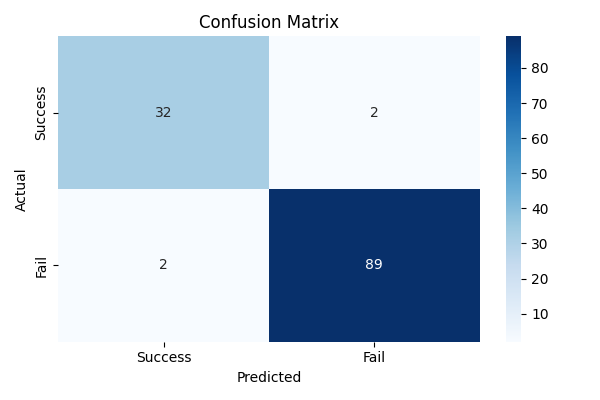
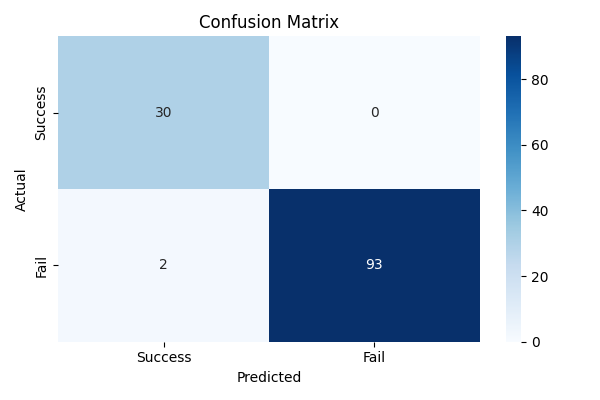
mlflow run succesfully on aws EC2 VM

diff --git a/awstrackingmlflow.py b/awstrackingmlflow.py
@@ -1,0 +1,153 @@
+import os
+import sys
+import warnings
+import logging
+import pandas as pd
+import numpy as np
+import matplotlib.pyplot as plt
+import seaborn as sns
+
+from sklearn.metrics import (
+    accuracy_score,
+    precision_score,
+    recall_score,
+    f1_score,
+    classification_report,
+    confusion_matrix
+)
+from sklearn.model_selection import train_test_split
+from sklearn.ensemble import RandomForestClassifier
+from urllib.parse import urlparse
+
+import mlflow
+import mlflow.sklearn
+from mlflow.models.signature import infer_signature
+
+# ✅ DagsHub MLflow tracking integration
+from dagshub import init
+# init(
+#     repo_owner='mahfuzrahmandsuh23',
+#     repo_name='SmartDebitMonitor-with-Mlflow-DagsHub-AWS',
+#     mlflow=True
+# )
+
+# ✅ Logging setup
+logging.basicConfig(level=logging.WARN)
+logger = logging.getLogger(__name__)
+
+# 📏 Metric utility
+def compute_metrics(y_true, y_pred):
+    return {
+        "accuracy": accuracy_score(y_true, y_pred),
+        "precision": precision_score(y_true, y_pred),
+        "recall": recall_score(y_true, y_pred),
+        "f1_score": f1_score(y_true, y_pred)
+    }
+
+# 📊 Confusion Matrix
+def log_confusion_matrix(y_true, y_pred, class_names):
+    cm = confusion_matrix(y_true, y_pred)
+    plt.figure(figsize=(6, 4))
+    sns.heatmap(cm, annot=True, fmt='d', cmap='Blues',
+                xticklabels=class_names, yticklabels=class_names)
+    plt.xlabel("Predicted")
+    plt.ylabel("Actual")
+    plt.title("Confusion Matrix")
+    plt.tight_layout()
+    cm_path = "confusion_matrix.png"
+    plt.savefig(cm_path)
+    plt.close()
+    mlflow.log_artifact(cm_path)
+
+# 🌲 Feature Importance
+def log_feature_importance(model, feature_names):
+    importances = model.feature_importances_
+    indices = np.argsort(importances)[::-1]
+    plt.figure(figsize=(10, 6))
+    sns.barplot(x=importances[indices], y=np.array(feature_names)[indices])
+    plt.title("Feature Importances")
+    plt.xlabel("Importance")
+    plt.ylabel("Feature")
+    plt.tight_layout()
+    fi_path = "feature_importance.png"
+    plt.savefig(fi_path)
+    plt.close()
+    mlflow.log_artifact(fi_path)
+
+# 🚀 ML pipeline
+if __name__ == "__main__":
+    warnings.filterwarnings("ignore")
+
+    # 🎲 Generate dynamic random seed for varied experiments
+    seed = np.random.randint(1, 10000)
+
+    # ✅ Step 1: Set remote tracking URI before anything else
+    remote_tracking_uri = "http://ec2-13-49-145-220.eu-north-1.compute.amazonaws.com:5000/"
+    mlflow.set_tracking_uri(remote_tracking_uri)
+
+    print("Tracking URI set to:", mlflow.get_tracking_uri())
+
+    # 📂 Load dataset
+    csv_path = os.path.join("Data", "synthetic_recurring_payment_data.csv")
+    try:
+        df = pd.read_csv(csv_path)
+    except Exception as e:
+        logger.exception("❌ Unable to load dataset: %s", e)
+        sys.exit(1)
+
+    # 🧹 Preprocessing
+    df.drop(columns=["CustomerID", "PaymentDate"], inplace=True)
+    df["IsWeekend"] = df["IsWeekend"].astype(int)
+    df = pd.get_dummies(df, columns=["PaymentType", "AccountType"], drop_first=True)
+    df["PaymentStatus"] = df["PaymentStatus"].map({"Success": 0, "Fail": 1})
+
+    # 🎯 Split
+    X = df.drop("PaymentStatus", axis=1)
+    y = df["PaymentStatus"]
+    X_train, X_test, y_train, y_test = train_test_split(
+        X, y, test_size=0.25, random_state=seed
+    )
+
+    # 🔄 Start MLflow run
+    with mlflow.start_run():
+        # 🌲 Train model with variable seed
+        model = RandomForestClassifier(n_estimators=100, random_state=seed)
+        model.fit(X_train, y_train)
+        y_pred = model.predict(X_test)
+
+        # 📈 Metrics
+        metrics = compute_metrics(y_test, y_pred)
+        for key, value in metrics.items():
+            mlflow.log_metric(key, value)
+
+        # Log parameters
+        mlflow.log_param("n_estimators", 100)
+        mlflow.log_param("random_seed", seed)
+
+        # 📄 Save classification report
+        report_path = "classification_report.txt"
+        with open(report_path, "w") as f:
+            f.write(classification_report(y_test, y_pred))
+        mlflow.log_artifact(report_path)
+
+        # 📊 Log visual artifacts
+        log_confusion_matrix(y_test, y_pred, class_names=["Success", "Fail"])
+        log_feature_importance(model, X.columns)
+
+        # 💾 Log model with signature
+        #signature = infer_signature(X_test, y_pred)
+        tracking_type = urlparse(mlflow.get_tracking_uri()).scheme
+
+        if tracking_type != "file":
+            mlflow.sklearn.log_model(
+                model,
+                artifact_path="model",
+                registered_model_name="RecurringPayModel"
+               
+            )
+        else:
+            mlflow.sklearn.log_model(
+                model,
+                artifact_path="model"
+                
+            )

diff --git a/Dagshub_MLflow.py b/Dagshub_MLflow.py
@@ -1,0 +1,142 @@
+import os
+import sys
+import warnings
+import logging
+import pandas as pd
+import numpy as np
+import matplotlib.pyplot as plt
+import seaborn as sns
+
+from sklearn.metrics import (
+    accuracy_score,
+    precision_score,
+    recall_score,
+    f1_score,
+    classification_report,
+    confusion_matrix
+)
+from sklearn.model_selection import train_test_split
+from sklearn.ensemble import RandomForestClassifier
+from urllib.parse import urlparse
+
+import mlflow
+import mlflow.sklearn
+from mlflow.models.signature import infer_signature
+
+# ✅ DagsHub integration
+from dagshub import init
+
+# Replace with your actual username and repo name
+init(repo_owner='mahfuzrahmandsuh23',
+     repo_name='SmartDebitMonitor-with-Mlflow-DagsHub-AWS',
+     mlflow=True)
+
+# ✅ Logging setup
+logging.basicConfig(level=logging.WARN)
+logger = logging.getLogger(__name__)
+
+
+# 📏 Metrics utility
+def compute_metrics(y_true, y_pred):
+    return {
+        "accuracy": accuracy_score(y_true, y_pred),
+        "precision": precision_score(y_true, y_pred),
+        "recall": recall_score(y_true, y_pred),
+        "f1_score": f1_score(y_true, y_pred)
+    }
+
+# 🔷 Confusion matrix artifact
+def log_confusion_matrix(y_true, y_pred, class_names):
+    cm = confusion_matrix(y_true, y_pred)
+    plt.figure(figsize=(6, 4))
+    sns.heatmap(cm, annot=True, fmt='d', cmap='Blues',
+                xticklabels=class_names, yticklabels=class_names)
+    plt.xlabel("Predicted")
+    plt.ylabel("Actual")
+    plt.title("Confusion Matrix")
+    plt.tight_layout()
+    cm_path = "confusion_matrix.png"
+    plt.savefig(cm_path)
+    plt.close()
+    mlflow.log_artifact(cm_path)
+
+# 🌲 Feature importance artifact
+def log_feature_importance(model, feature_names):
+    importances = model.feature_importances_
+    indices = np.argsort(importances)[::-1]
+    plt.figure(figsize=(10, 6))
+    sns.barplot(x=importances[indices], y=np.array(feature_names)[indices])
+    plt.title("Feature Importances")
+    plt.xlabel("Importance")
+    plt.ylabel("Feature")
+    plt.tight_layout()
+    fi_path = "feature_importance.png"
+    plt.savefig(fi_path)
+    plt.close()
+    mlflow.log_artifact(fi_path)
+
+# 🚀 Main pipeline
+if __name__ == "__main__":
+    warnings.filterwarnings("ignore")
+    np.random.seed(40)
+
+    # 📂 Load dataset
+    csv_path = os.path.join("Data", "synthetic_recurring_payment_data.csv")
+    try:
+        df = pd.read_csv(csv_path)
+    except Exception as e:
+        logger.exception("❌ Unable to load dataset: %s", e)
+        sys.exit(1)
+
+    # 🧹 Preprocessing
+    df.drop(columns=["CustomerID", "PaymentDate"], inplace=True)
+    df["IsWeekend"] = df["IsWeekend"].astype(int)
+    df = pd.get_dummies(df, columns=["PaymentType", "AccountType"], drop_first=True)
+    df["PaymentStatus"] = df["PaymentStatus"].map({"Success": 0, "Fail": 1})
+
+    # 🎯 Split data
+    X = df.drop("PaymentStatus", axis=1)
+    y = df["PaymentStatus"]
+    X_train, X_test, y_train, y_test = train_test_split(X, y, test_size=0.25, random_state=42)
+
+    # 🔄 Start MLflow run (DagsHub auto-handles tracking URI)
+    with mlflow.start_run():
+        model = RandomForestClassifier(n_estimators=100, random_state=42)
+        model.fit(X_train, y_train)
+        y_pred = model.predict(X_test)
+
+        # 📈 Compute & log metrics
+        metrics = compute_metrics(y_test, y_pred)
+        for key, value in metrics.items():
+            mlflow.log_metric(key, value)
+
+        # 🔧 Log params
+        mlflow.log_param("n_estimators", 100)
+
+        # 📄 Log classification report
+        report_path = "classification_report.txt"
+        with open(report_path, "w") as f:
+            f.write(classification_report(y_test, y_pred))
+        mlflow.log_artifact(report_path)
+
+        # 📊 Log artifacts
+        log_confusion_matrix(y_test, y_pred, class_names=["Success", "Fail"])
+        log_feature_importance(model, X.columns)
+
+        # 💾 Log model
+        #signature = infer_signature(X_test, y_pred)
+        tracking_type = urlparse(mlflow.get_tracking_uri()).scheme
+
+        if tracking_type != "file":
+            mlflow.sklearn.log_model(
+                model,
+                artifact_path="model",
+                registered_model_name="RecurringPayModel"
+                
+            )
+        else:
+            mlflow.sklearn.log_model(
+                model,
+                artifact_path="model"
+                
+            )

diff --git a/README.md b/README.md
@@ -1,2 +1,73 @@
 # SmartDebitMonitor-with-Mlflow-DagsHub-AWS
 ML-powered prediction of recurring payment outcomes
+
+# EndToEnd_MLproject_ExperimentTracking_mlflow_Dagshub_Aws_wineqiality
+# MLflow-Basic-Demo
+
+
+
+## For current Dagshub:
+#Initising Dagshub
+
+import dagshub
+dagshub.init(repo_owner='mahfuzrahmandsuh23', repo_name='EndToEnd_MLproject_ExperimentTracking_mlflow_Dagshub_Aws_wineqiality', mlflow=True)
+
+import mlflow
+with mlflow.start_run():
+mlflow.log_param('parameter name', 'value')
+mlflow.log_metric('metric name', 1)
+
+
+
+
+
+
+# MLflow on AWS
+
+## MLflow on AWS Setup:
+
+1. Login to AWS console.
+2. Create IAM user with AdministratorAccess
+3. Export the credentials in your AWS CLI by running "aws configure"
+4. Create a s3 bucket
+5. Create EC2 machine (Ubuntu) & add Security groups 5000 port
+
+Run the following command on EC2 machine
+```bash
+sudo apt update
+
+sudo apt install python3-pip
+
+sudo apt install pipenv
+
+sudo apt install virtualenv
+
+mkdir mlflow
+
+cd mlflow
+
+pipenv install mlflow
+
+pipenv install awscli
+
+pipenv install boto3
+
+pipenv shell
+
+
+## Then set aws credentials
+aws configure
+
+
+#Finally 
+mlflow server -h 0.0.0.0 --default-artifact-root s3://mlflowclassfc25
+
+#open Public IPv4 DNS to the port 5000
+
+
+#set uri in your local terminal and in your code 
+export MLFLOW_TRACKING_URI=http://ec2-13-49-145-220.eu-north-1.compute.amazonaws.com:5000/
+```
+
+
+
